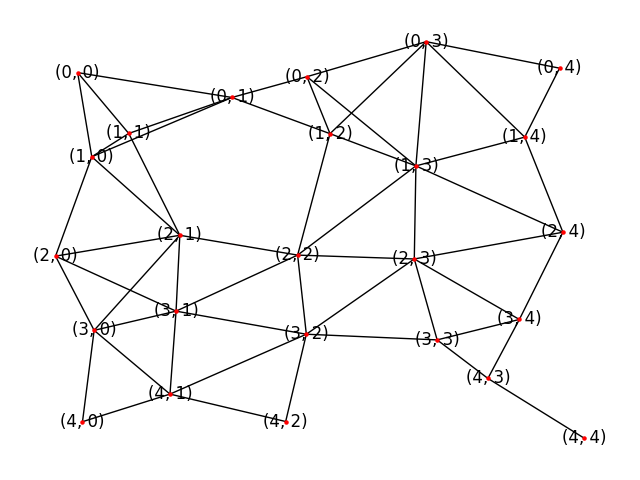
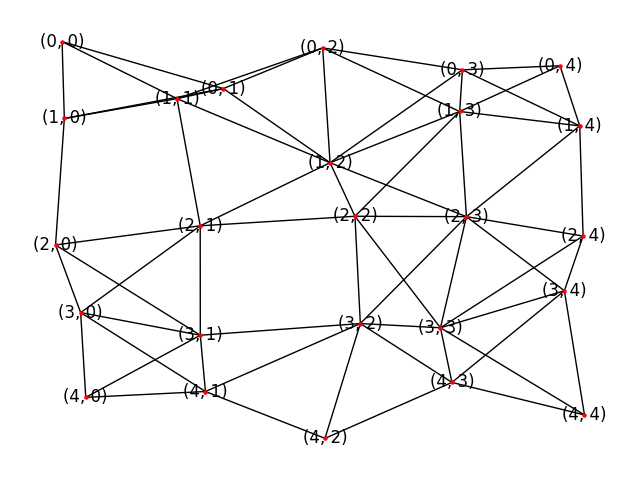
It works!! Still not perfect, we have to think abo ut the script always looking for the shortest path while we divide flow bades on resistivity. Hereby we endup pretty quickly with k paths of wich only one gets any flow.

diff --git a/STARTING POSISTION.py b/STARTING POSISTION.py
@@ -22,8 +22,9 @@ sd = 0.2                            # standard deviation
 I_0 = 1                             # Normalized flow/current
 k = 4                               # number of paths
 gamma = 1.8                         # constant that determines non linearity of radius response to flow. Present in dRdt function.
-dR = np.pi*r/8*mu                   # reduction of radius term. present in dRdt function
-
+dR = (np.pi*r/8*mu)*0.01            # reduction of radius term. present in dRdt function
+t = 0                               # timestep initialisation
+convergence = False                 # Convergence init.
 # Add nodes in a 10x10 grid
 for i in range(rows):
     for j in range(cols):
@@ -54,13 +55,11 @@ for i in range(rows):
                     if distance < min_distance:
                         G.add_edge((i, j), (x, y), length = distance, radius = r)
 
-
-
-
-# Draw the graph
-plt.figure()
-nx.draw(G, pos, node_size=5, node_color="red", with_labels=True)
-# ## It works !!
+# # Draw the graph
+# plt.figure()
+# nx.draw(G, pos, node_size=5, node_color="red", with_labels=True)
+# plt.title(f"Network at t={t}")
+# plt.show()
 
 ## Now we need to implement food sources = FS and the tube size = TS. Also this tube size has to 
 # change with every iteration dt. according to the paper.
@@ -150,11 +149,11 @@ def find_flow_distribution(resistance_of_paths_list):
 # now that we know the flow per path we need to keep track of the flow per tube:
 def find_flow_per_tube(list_of_paths, Q):
     # initialise all edges with flow zero
-    flow_per_tube = {edge : 0 for edge in G.edges()}
+    flow_per_tube = {tuple(sorted(edge)) : 0 for edge in G.edges()}
     a=0
     for path in list_of_paths:
         for u, v in zip(path, path[1:]):
-            flow_per_tube[(u,v)] += Q.get(a)
+            flow_per_tube[tuple(sorted((u,v)))] += Q.get(a)
         a+=1
     return flow_per_tube
 
@@ -168,31 +167,95 @@ def find_flow_per_tube(list_of_paths, Q):
 def Adjust_radius(flow_per_tube):
     for u,v in G.edges():       # applies drdt function,sigmoid minus constant, to every edge.
         G[u][v]['radius'] += ((flow_per_tube.get((u,v)))**gamma)/(1+(flow_per_tube.get((u,v)))**gamma) - dR
+        if G[u][v]['radius'] < 0:
+            G[u][v]['radius'] = 0       # ensure radius min caps at 0 
     return # returns nothing, simply adjusts existing edge attributes 'radius'
 
 
 # ---
 #  6  Repeat timesteps iterations until network reaches certain convergence conditions
 # ---
+# we want to repeat all the above per timestep as long as some convergence condictions are not met.
+# This means we have to define the convergence conditions.
+# Create timestep functionallity.
+# and add color functionality of plots with ech iter, where we want to correlate edge thickness and opacity to the radius of a tube.
+
+# Convergence conditions: for now set to do 100 iters
+def Check_convergence(convergence):
+    if t == 100:
+        convergence = True
+    return convergence
+
+# ITER LOOP:
+while convergence == False:
+    # 1. Select nodes
+    Nodes = select_source_and_sink_nodes(FS)
+    print(f"the source node is: {Nodes[0]} and the sink node is: {Nodes[1]}")
+
+    # 2. Find paths
+    list_of_paths = k_shortest_paths(G,Nodes,k)
+    print(f"the {k} shortest possible paths are:{list_of_paths}")
+
+    # 3. Calc resistance
+    resistance_of_paths_list = Resistance_of_paths(list_of_paths)
+    print(f"their respective resistances are: {resistance_of_paths_list}")
+
+    # 4. divide flow
+    Q = find_flow_distribution(resistance_of_paths_list)
+    print(f'the distribution of flow trough each path is: {Q}')
+    print(f'Sum is one check: {sum(Q.values())}')
+    flow_per_tube = find_flow_per_tube(list_of_paths, Q)
+    print(f'the amount of flow through each tube this iteration is: {flow_per_tube}')
+
+    # 5. Adjust radius
+    next_rad = Adjust_radius(flow_per_tube)
+    radius_list = [G[u][v]['radius'] for u,v in G.edges]
+    print(f'the new radia are: {radius_list}')
+
+    # Draw the graph
+    plt.figure()
+    plt.title(f"Network at t={t}")
+    # normalize opacity
+    max_r = max(radius_list)
+    edge_opacity = [r/max_r for r in radius_list]       # normalized [0,1]
+    edge_width = [(r/max_r) for r in radius_list]
+    nx.draw(
+    G,
+    pos,
+    with_labels = True,
+    node_color = 'red',
+    node_size = 5,
+    width = edge_width,
+    )
+    t+=1
+    # Convergence check
+    convergence = Check_convergence(convergence)
+    # final composing
+    plt.show()
+
+    
+
+
+
 
 # ---
 #  T  Test code
 # ---
 
-# 1. Select nodes
-Nodes = select_source_and_sink_nodes(FS)
-print(f"the source node is: {Nodes[0]} and the sink node is: {Nodes[1]}")
-# 2. Find paths
+# # 1. Select nodes
+# Nodes = select_source_and_sink_nodes(FS)
+# print(f"the source node is: {Nodes[0]} and the sink node is: {Nodes[1]}")
+# # 2. Find paths
 
-list_of_paths = k_shortest_paths(G,Nodes,k)
-print(f"the {k} shortest possible paths are:{list_of_paths}")
-# 3. Calc resistance
-resistance_of_paths_list = Resistance_of_paths(list_of_paths)
-print(f"their respective resistances are: {resistance_of_paths_list}")
-# 4. divide flow
-Q = find_flow_distribution(resistance_of_paths_list)
-print(f'the distribution of flow trough each path is: {Q}')
-print(f'Sum is one check: {sum(Q.values())}')
-flow_per_tube = find_flow_per_tube(list_of_paths, Q)
-print(f'the amount of flow through each tube this iteration is: {flow_per_tube}')
-plt.show()
+# list_of_paths = k_shortest_paths(G,Nodes,k)
+# print(f"the {k} shortest possible paths are:{list_of_paths}")
+# # 3. Calc resistance
+# resistance_of_paths_list = Resistance_of_paths(list_of_paths)
+# print(f"their respective resistances are: {resistance_of_paths_list}")
+# # 4. divide flow
+# Q = find_flow_distribution(resistance_of_paths_list)
+# print(f'the distribution of flow trough each path is: {Q}')
+# print(f'Sum is one check: {sum(Q.values())}')
+# flow_per_tube = find_flow_per_tube(list_of_paths, Q)
+# print(f'the amount of flow through each tube this iteration is: {flow_per_tube}')
+

diff --git a/GPT_dynamic plotting_test.py b/GPT_dynamic plotting_test.py
@@ -1,0 +1,71 @@
+import networkx as nx
+import plotly.graph_objects as go
+
+# Create a graph and add edges with attributes
+G = nx.Graph()
+G.add_edge(1, 2, weight=5, flow=2)
+G.add_edge(2, 3, weight=3, flow=5)
+G.add_edge(3, 4, weight=1, flow=10)
+
+# Define a layout
+pos = nx.spring_layout(G)
+
+# Extract edge attributes and node positions
+weights = [G[u][v]['weight'] for u, v in G.edges()]
+flows = [G[u][v]['flow'] for u, v in G.edges()]
+
+# Normalize weights and flows
+max_weight = max(weights)
+max_flow = max(flows)
+edge_opacities = [weight / max_weight for weight in weights]  # Normalized for [0, 1]
+edge_widths = [flow / max_flow * 5 for flow in flows]         # Scaled to desired range
+
+# Prepare edge traces
+edge_x = []
+edge_y = []
+edge_colors = []
+edge_widths_scaled = []
+
+for (u, v), opacity, width in zip(G.edges(), edge_opacities, edge_widths):
+    x0, y0 = pos[u]
+    x1, y1 = pos[v]
+    edge_x.extend([x0, x1, None])
+    edge_y.extend([y0, y1, None])
+    edge_colors.append(f'rgba(0, 0, 255, {opacity})')  # Use RGBA for color and opacity
+    edge_widths_scaled.append(width)
+
+# Create edge traces
+edge_trace = go.Scatter(
+    x=edge_x,
+    y=edge_y,
+    line=dict(width=edge_widths_scaled[0], color=edge_colors[0]),
+    hoverinfo='none',
+    mode='lines'
+)
+
+# Adjust the edge attributes dynamically for all edges
+edge_trace.line.aqua = edge_colors
+edge_trace.line.width = edge_widths_scaled
+
+# Prepare node traces
+node_x = [pos[node][0] for node in G.nodes()]
+node_y = [pos[node][1] for node in G.nodes()]
+node_trace = go.Scatter(
+    x=node_x,
+    y=node_y,
+    mode='markers+text',
+    marker=dict(size=10, color='lightblue', line=dict(width=2, color='black')),
+    text=list(G.nodes()),
+    hoverinfo='text'
+)
+
+# Create the figure
+fig = go.Figure(data=[edge_trace, node_trace])
+fig.update_layout(
+    title="Network Graph with Edge Width and Opacity",
+    showlegend=False,
+    xaxis=dict(showgrid=False, zeroline=False),
+    yaxis=dict(showgrid=False, zeroline=False)
+)
+
+fig.show()
